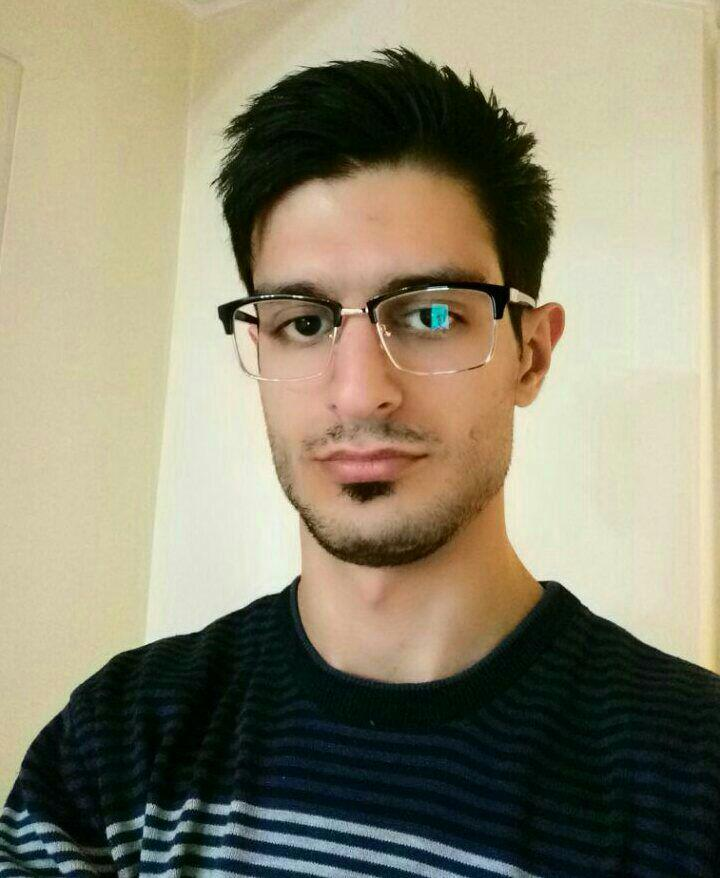
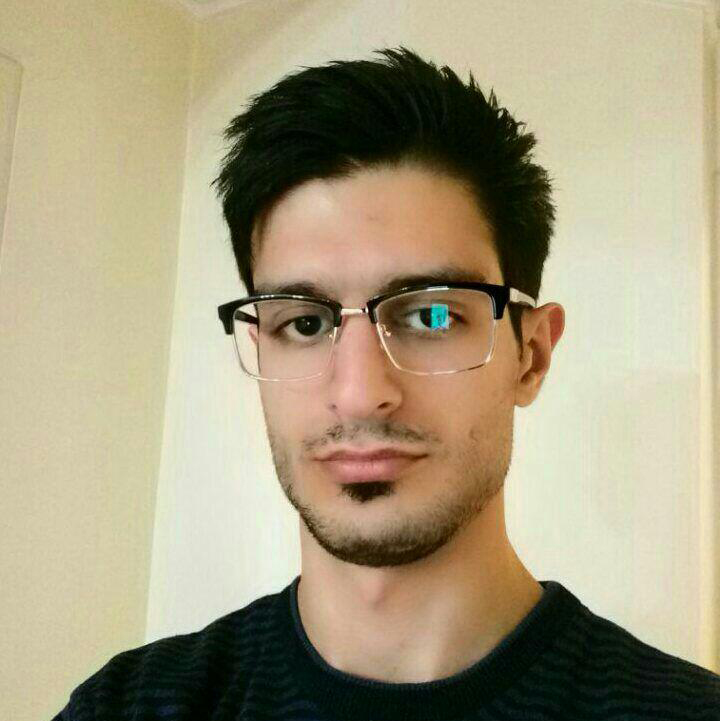
presenter photo edited, presentation description added

diff --git a/app/Section.php b/app/Section.php
@@ -182,7 +182,23 @@ class Section extends StaticModel
             'time' => 'روز دوم - ۹ تا ۱۲:۳۰',
             'room' => 'سایت کامپیوتر',
             'desc' => 'این کارگاه توضیحات معماری یک اُپناستک و تنظیمات اولیه از پیادهسازی آن به شرکت کنندگان میدهد.
-توضیحات بیشتر به زودی...
+سرفصلهای ارائه شده در این کارگاه عبارتند از:
+<h3>Introduction to Openstack</h3>
+<li>Introduction and Welcome</li>
+<li>Next Gen OpenStack Data Centers</li>
+<h3>Architecture Components of OpenStack</h3>
+<li>What OpenStack is Not. (The History)</li>
+<li>Architecture </li>
+<li>Nova Compute</li>
+<li>Swift - Storage</li>
+<li>Glance - Image Sevice</li>
+<li>Neutron - Networking</li>
+<li>Horizon - Dashboard</li>
+<li>Keystone - Identity Service</li>
+<h3>OpenStack Demonstrations</h3>
+<li>OpenStack Hypervisors</li>
+<li>Choosing your Distribution platform</li>
+<li>Creating your Own Openstack using DecStack</li>
 '
         ],
 
@@ -650,7 +666,7 @@ class Section extends StaticModel
             'date' => '2',
             'time' => 'روز دوم - ۱۵:۳۰ تا ۱۶:۰۰',
             'room' => 'سالن آمفیتئاتر',
-            'desc' => ''
+            'desc' => 'امروزه شبکههای نرم افزار بنیان که در آنها سعی بر کنترل شبکه بر اساس نرم افزار میباشد به سرعت در حال گسترش است، در کنار شبکههای نرم افزار بنیان ایدهی پیادهسازی عملیاتهای شبکه مثل سوئیچینگ نیز به صورت نرم افزاری رو به گسترش نهاده است، در همه این ایدهها مشکل اصلی تعداد بستههایی است که میتوان به صورت نرم افزاری پردازش نمود، پلتفرم NetVM قصد حل این مشکل را دارد.'
         ],
 
         //--------------------------------------------------------------
